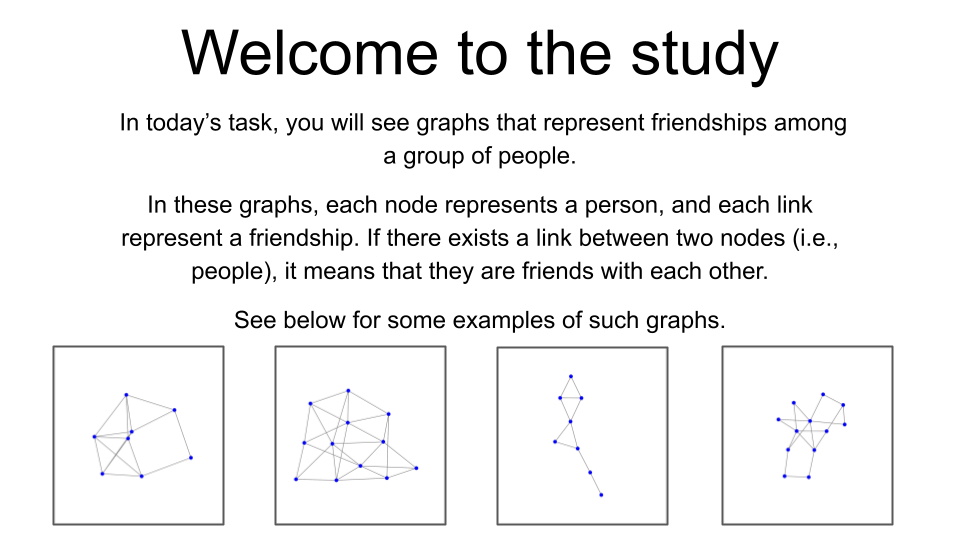
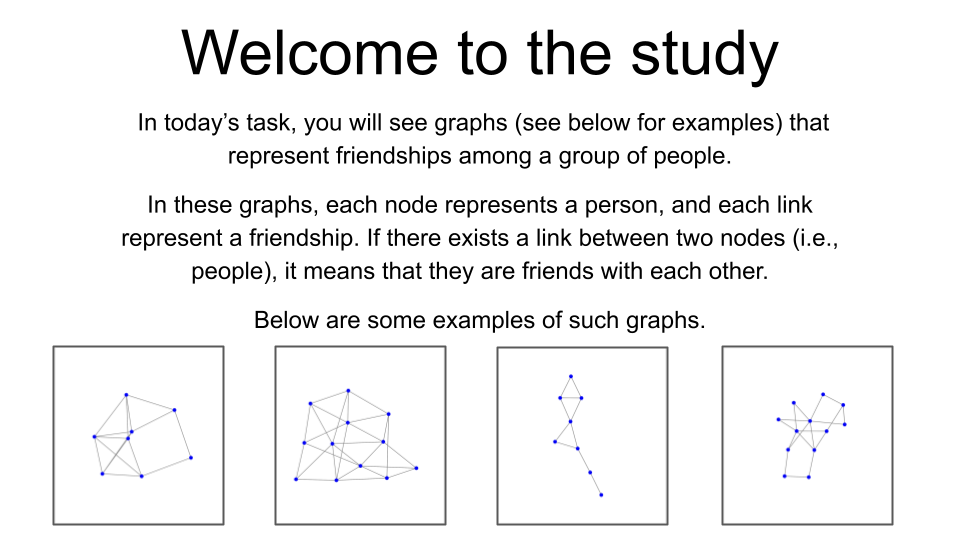
update

Changed region(s): [[0.125, 0.2074, 0.875, 0.3259], [0.25, 0.563, 0.75, 0.6222]]

diff --git a/task.js b/task.js
@@ -832,7 +832,7 @@ function runTrial() {
   const instructionsEl = document.getElementById("instructionsText");
 
   if (trial.type === "probe") {
-    instructionsEl.innerHTML = 'Press <strong>SPACE</strong> button.';
+    instructionsEl.innerHTML = 'Press the <strong>SPACE</strong> button.';
     instructionsEl.style.color = 'red';
 
     const randA = randInt(randPick, aGraphs.length);
@@ -850,7 +850,7 @@ function runTrial() {
     lastCyLeft  = drawGraph(graphA, "graph-left");
     lastCyRight = drawGraph(graphB, "graph-right");
 
-    instructionsEl.innerHTML = 'If you think the left graph resembles the reality more, press <strong>F<strong>. <br> Alternatively, if you think the right graph resembles the reality more, press <strong>J<strong>.';
+    instructionsEl.innerHTML = 'If you think the left graph is more likely to come from the real-world friendship data, press <strong>F<strong>. <br> Alternatively, if you think the right graph is more likely to come from the real-world friendship data., press <strong>J<strong>.';
     instructionsEl.style.color = 'black';
   }
 
